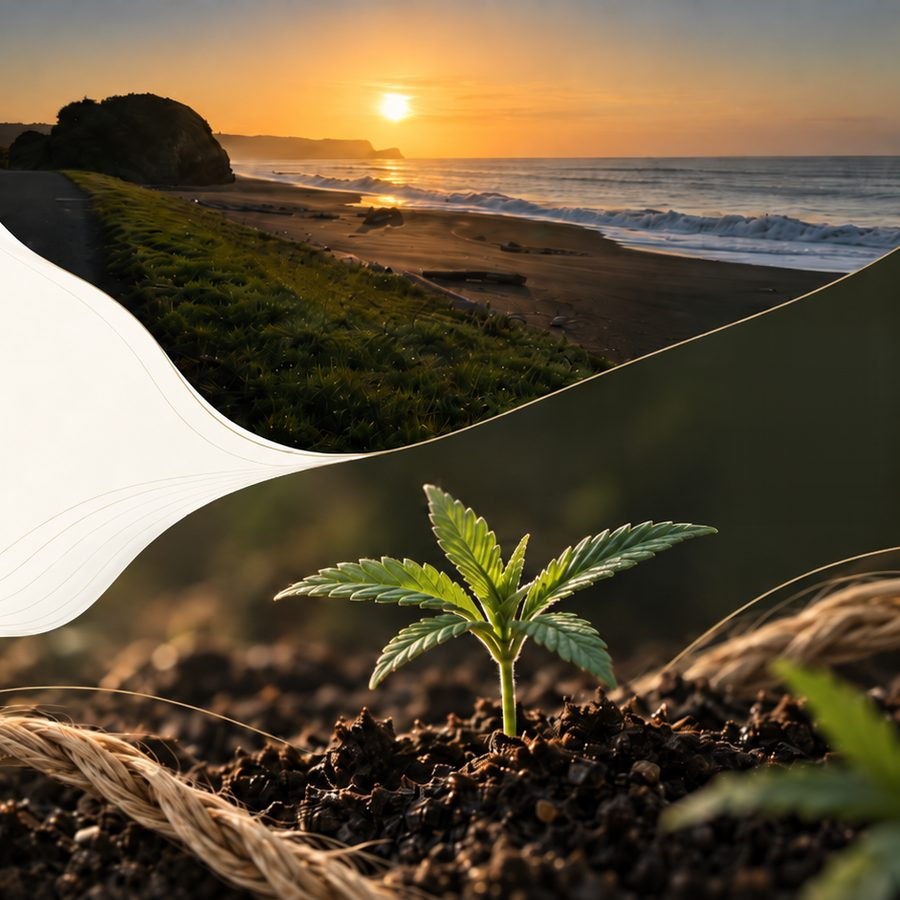
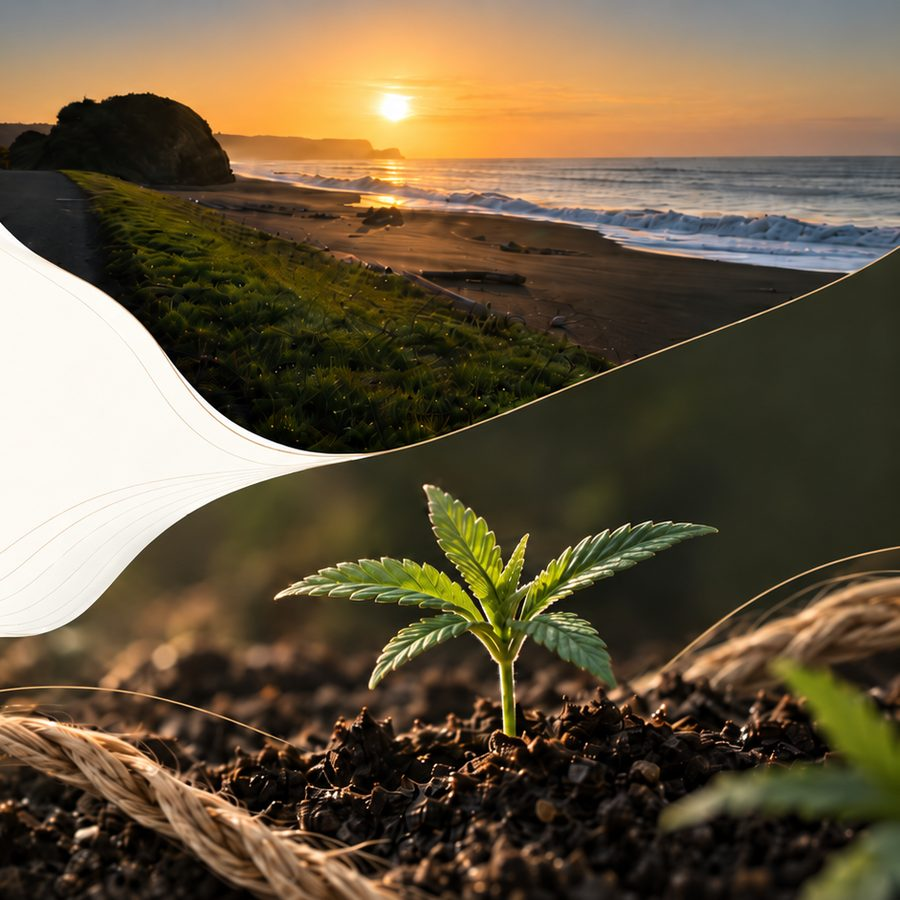
feat(origins): CEO blank canvas replaces the inpainted panel
Swaps in the clean artwork supplied by the CEO (no baked-in type, so the inpainting is no longer needed) and retunes the live overlay to its wave: the cream reaches only 41% at the top and bulges to 62% mid-height, so the copy block moves down to 19% and widens to 38%, with the beats at 3.55cqw and nowrap so each beat holds one line. Mobile crop regenerated from the same canvas.

diff --git a/origins.html b/origins.html
@@ -1455,8 +1455,8 @@ html.no-video .hero-scroll{opacity:1;}
 .og-beats-panel img{display:block;width:100%;height:auto;
   -webkit-mask-image:linear-gradient(to bottom,#000 74%,transparent 100%);mask-image:linear-gradient(to bottom,#000 74%,transparent 100%);}
 .og-beats-panel::before{content:'';position:absolute;left:0;right:0;top:0;height:9%;z-index:1;pointer-events:none;background:linear-gradient(to bottom,rgba(5,5,5,0.48),transparent);}
-.og-panel-copy{position:absolute;z-index:2;left:5.7%;top:15.5%;width:38%;color:#1d211f;}
-.og-panel-beats{margin:0;font-family:var(--font-h);font-weight:300;font-size:3.6vw;font-size:3.65cqw;line-height:1.12;letter-spacing:-0.025em;}
+.og-panel-copy{position:absolute;z-index:2;left:5.5%;top:19%;width:38%;color:#1d211f;}
+.og-panel-beats{margin:0;font-family:var(--font-h);font-weight:300;font-size:3.5vw;font-size:3.55cqw;line-height:1.14;letter-spacing:-0.025em;white-space:nowrap;}
 .og-panel-line{display:block;opacity:0;transform:translateY(0.35em);filter:blur(6px);transition:opacity 0.9s cubic-bezier(.2,.7,.2,1),transform 0.9s cubic-bezier(.2,.7,.2,1),filter 0.9s ease;}
 .og-panel-line em{font-style:italic;color:#8f6a33;}
 .og-panel-rule{display:block;width:2.6cqw;min-width:32px;height:1px;background:#8f6a33;opacity:0.9;margin:2cqw 0 1.6cqw;transform-origin:left;transform:scaleX(0);transition:transform 0.8s cubic-bezier(.2,.7,.2,1);}
